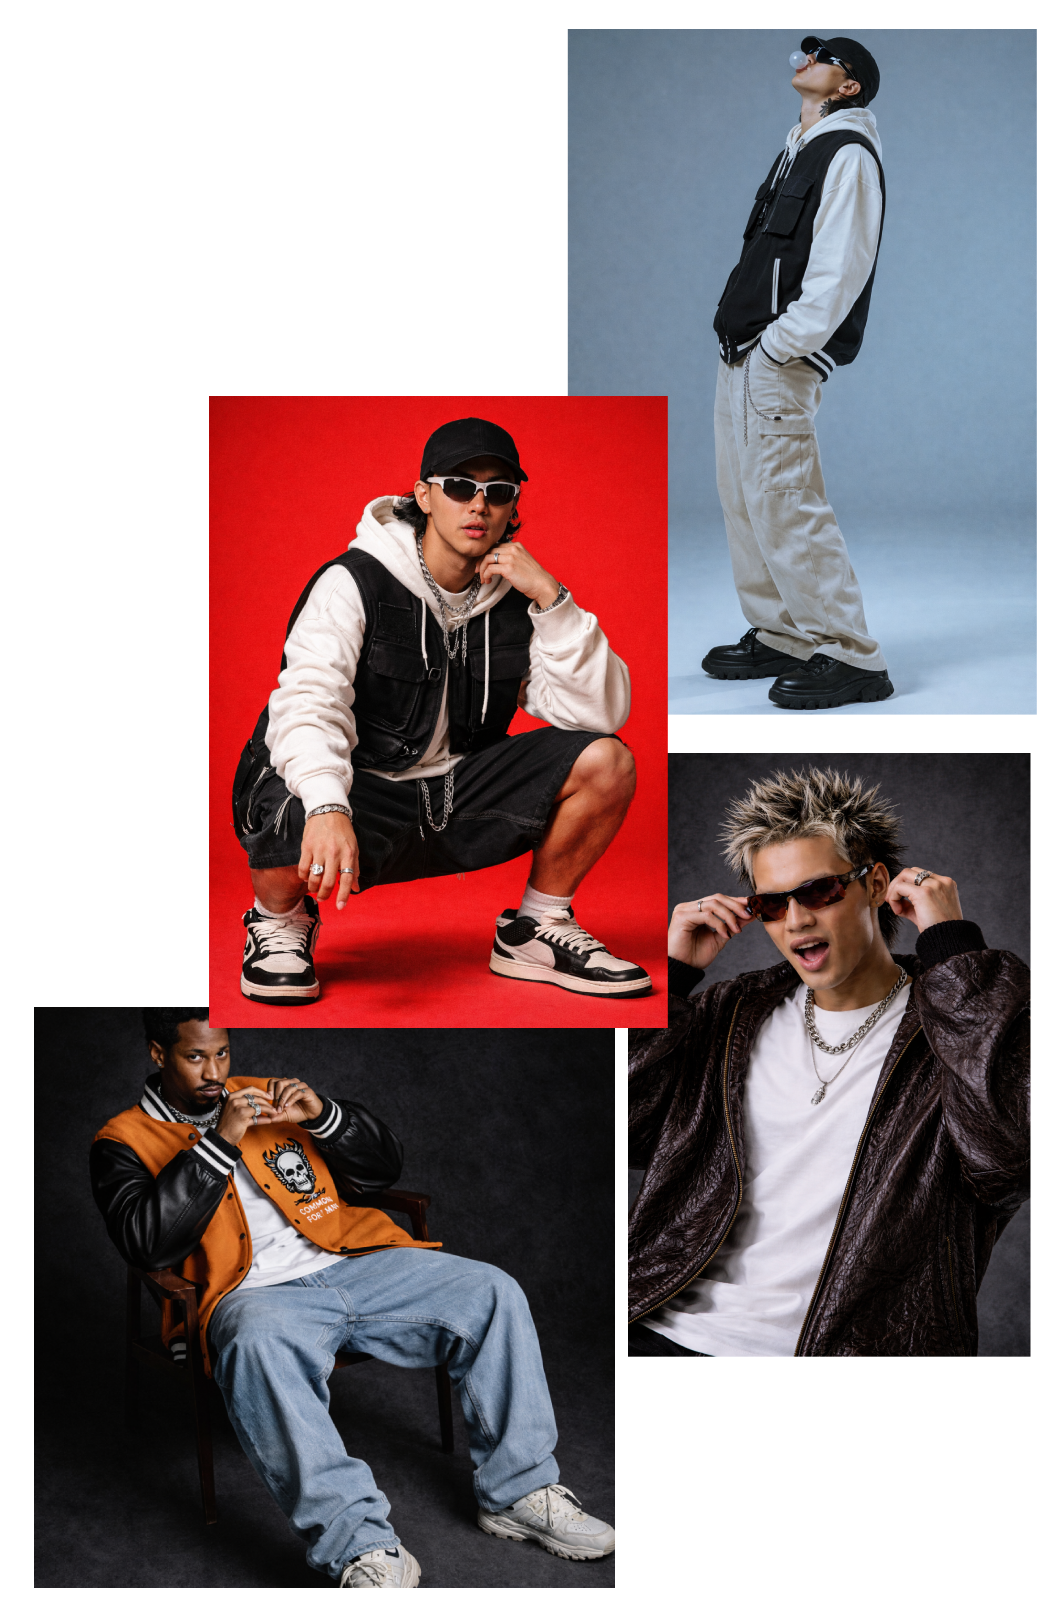
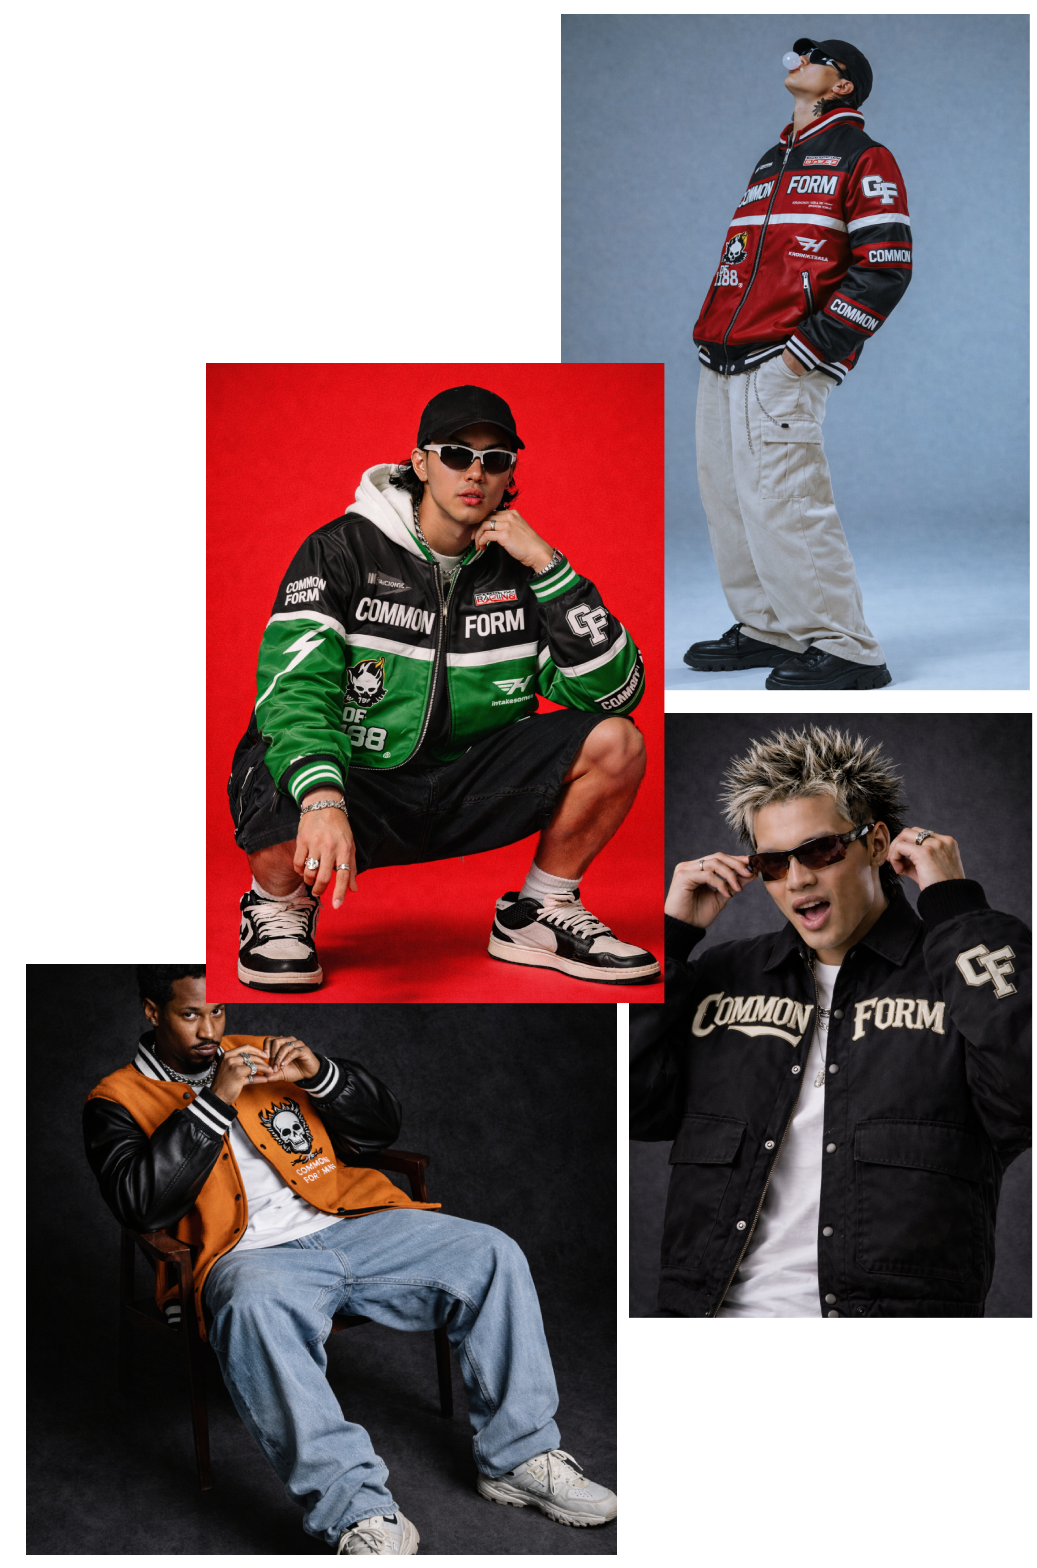
initial commit

Changed region(s): [[0.0, 0.0, 1.0, 1.0]]

diff --git a/app/page.jsx b/app/page.jsx
@@ -44,9 +44,9 @@ const michroma = Michroma({
   weight: "400", // only one weight available
 });
 const modelPaths = [
-  "/3d/black varsity jacket 3d model (1).glb",
-  "/3d/leather racing jacket 3d model.glb",
   "/3d/jacket red.glb",
+  "/3d/black varsity jacket 3d model (1).glb",
+  "/3d/racing jacket 3d model.glb",
   "/3d/racing jacket 3d model.glb",
   "/3d/black sneaker 3d model.glb",
   "/3d/combat boot 3d model.glb",
@@ -63,15 +63,15 @@ const products = [
     media: [
       {
         type: "image",
-        src: "/images/black varsity jacket 1.png",
+        src: "/images/jacket red 1.png",
       },
       {
         type: "image",
-        src: "/images/black varsity jacket 2.png",
+        src: "/images/jacketred2.png",
       },
       {
         type: "image",
-        src: "/images/black varsity jacket 3.png",
+        src: "/images/jacketred3.png",
       },
     ],
   },
@@ -86,15 +86,15 @@ const products = [
     media: [
       {
         type: "image",
-        src: "/images/jacket red 1.png",
+        src: "/images/black varsity jacket 1.png",
       },
       {
         type: "image",
-        src: "/images/jacketred2.png",
+        src: "/images/black varsity jacket 2.png",
       },
       {
         type: "image",
-        src: "/images/jacketred3.png",
+        src: "/images/black varsity jacket 3.png",
       },
     ],
   },
